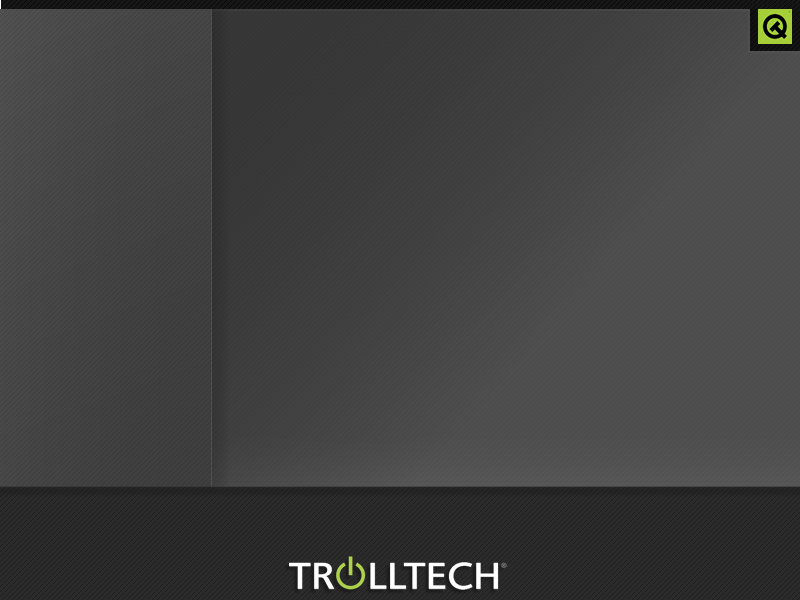
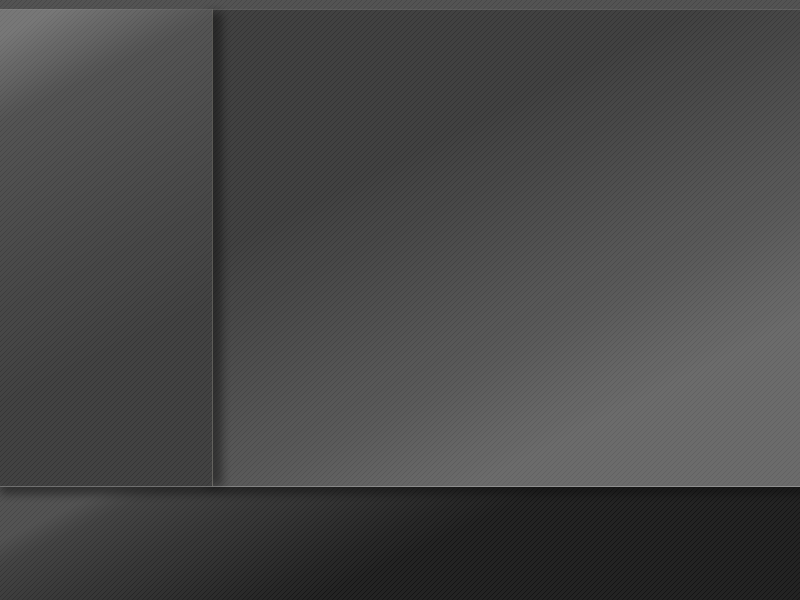
p4i integration Integrate 259815 from 4.3 to main: Details: fixed background and design
[git-p4: depot-paths = "//depot/qt/main/": change = 259816]

diff --git a/demos/qtdemo/src/imageitem.cpp b/demos/qtdemo/src/imageitem.cpp
@@ -14,12 +14,14 @@
 #include "imageitem.h"
 #include "colors.h"
 
-ImageItem::ImageItem(const QString &path, int maxWidth, int maxHeight, QGraphicsScene *scene, QGraphicsItem *parent)
-    : DemoItem(scene, parent)
+ImageItem::ImageItem(const QString &path, int maxWidth, int maxHeight, QGraphicsScene *scene,
+        QGraphicsItem *parent, bool adjustSize, float scale) : DemoItem(scene, parent)
 {
     this->path = path;
     this->maxWidth = maxWidth;
     this->maxHeight = maxHeight;
+    this->adjustSize = adjustSize;
+    this->scale = scale;
 }
 
 QImage *ImageItem::createImage(const QMatrix &matrix) const
@@ -29,38 +31,55 @@ QImage *ImageItem::createImage(const QMatrix &matrix) const
         return original; // nothing we can do about it...
     
     QPoint size = matrix.map(QPoint(this->maxWidth, this->maxHeight));
-    int w = size.x();
-    int h = size.y();
-
-    if (original->height() <= h && original->width() <= w)
+    float w = size.x(); // x, y is the used as width, height
+    float h = size.y();
+    
+    // Optimization: if image is smaller than maximum allowed size, just return the loaded image
+    if (original->size().height() <= h && original->size().width() <= w && !this->adjustSize && this->scale == 1)
         return original;
     
-    w = qMin(w, original->width());
-    h = qMin(h, original->height());
+    // Calculate what the size of the final image will be:
+    w = qMin(w, float(original->size().width()) * this->scale);
+    h = qMin(h, float(original->size().height()) * this->scale);
+    
+    float adjustx = 1.0f;
+    float adjusty = 1.0f;
+    if (this->adjustSize){
+        adjustx = qMin(matrix.m11(), matrix.m22());
+        adjusty = matrix.m22() < adjustx ? adjustx : matrix.m22();
+        w *= adjustx;
+        h *= adjusty;
+    }
     
     // Create a new image with correct size, and draw original on it
-    QImage *image = new QImage(w, h, QImage::Format_ARGB32_Premultiplied);
+    QImage *image = new QImage(int(w+2), int(h+2), QImage::Format_ARGB32_Premultiplied);
     image->fill(QColor(0, 0, 0, 0).rgba());
     QPainter painter(image);
+    painter.setRenderHints(QPainter::Antialiasing | QPainter::SmoothPixmapTransform);
+    if (this->adjustSize)
+        painter.scale(adjustx, adjusty);
+    if (this->scale != 1)
+       painter.scale(this->scale, this->scale);
     painter.drawImage(0, 0, *original);
 
-    // Blur out edges
-    int blur = 30;
-    if (h < original->height()){
-        QLinearGradient brush1(0, h - blur, 0, h);
-        brush1.setSpread(QGradient::PadSpread);
-        brush1.setColorAt(0.0, QColor(0, 0, 0, 0));
-        brush1.setColorAt(1.0, Colors::sceneBg1);
-        painter.fillRect(0, h - blur, original->width(), h, brush1);
+    if (!this->adjustSize){
+       // Blur out edges
+       int blur = 30;
+       if (h < original->height()){
+           QLinearGradient brush1(0, h - blur, 0, h);
+           brush1.setSpread(QGradient::PadSpread);
+           brush1.setColorAt(0.0, QColor(0, 0, 0, 0));
+           brush1.setColorAt(1.0, Colors::sceneBg1);
+           painter.fillRect(0, int(h) - blur, original->width(), int(h), brush1);
+       }
+       if (w < original->width()){
+           QLinearGradient brush2(w - blur, 0, w, 0);
+           brush2.setSpread(QGradient::PadSpread);
+           brush2.setColorAt(0.0, QColor(0, 0, 0, 0));
+           brush2.setColorAt(1.0, Colors::sceneBg1);
+           painter.fillRect(int(w) - blur, 0, int(w), original->height(), brush2);
+       }
     }
-    if (w < original->width()){
-        QLinearGradient brush2(w - blur, 0, w, 0);
-        brush2.setSpread(QGradient::PadSpread);
-        brush2.setColorAt(0.0, QColor(0, 0, 0, 0));
-        brush2.setColorAt(1.0, Colors::sceneBg1);
-        painter.fillRect(w - blur, 0, w, original->height(), brush2);
-    }
-  
     delete original;
     return image;
 }

diff --git a/demos/qtdemo/src/mainwindow.cpp b/demos/qtdemo/src/mainwindow.cpp
@@ -28,6 +28,8 @@ MainWindow::MainWindow(QWidget *parent) : QGraphicsView(parent), updateTimer(thi
     this->fpsMedian = -1;
     this->fpsLabel = 0;
     this->doneAdapt = false;
+    this->trolltechLogo = 0;
+    this->qtLogo = 0;
     this->setupWidget();
     this->setupScene();
     this->setupSceneItems();
@@ -38,6 +40,8 @@ MainWindow::MainWindow(QWidget *parent) : QGraphicsView(parent), updateTimer(thi
 
 MainWindow::~MainWindow()
 {
+    delete this->trolltechLogo;
+    delete this->qtLogo;
 }
 
 void MainWindow::setupWidget()
@@ -206,6 +210,11 @@ void MainWindow::setupSceneItems()
         this->fpsLabel->setZValue(100);
         this->fpsLabel->setPos(Colors::stageStartX, 600 - QFontMetricsF(Colors::buttonFont()).height() - 5);
     }
+
+    this->trolltechLogo = new ImageItem(":/images/trolltech-logo.png", 1000, 1000, this->scene, 0, true, 0.5f);
+    this->qtLogo = new ImageItem(":/images/qtlogo_small.png", 1000, 1000, this->scene, 0, true, 0.5f);
+    this->trolltechLogo->setZValue(100);
+    this->qtLogo->setZValue(100);
 }
 
 void MainWindow::checkAdapt()
@@ -250,15 +259,7 @@ void MainWindow::drawBackgroundToPixmap()
     QPainter painter(&this->background);
     
     if (false && Colors::useEightBitPalette){
-        // Use plain color bacground to enhance readability
-        float top = Colors::stageStartY;
-        float bottom = Colors::stageStartY + Colors::stageHeight - 29;
-        painter.fillRect(r, Colors::sceneBg2);
-        painter.fillRect(QRectF(0, top, r.width(), bottom), QColor(100, 100, 100));
-        QImage bg(":/images/trolltech-logo.png");
-        painter.drawImage(int((r.width() - bg.width()) / 2), int(top + bottom) + 10, bg);
-        QImage logo(":/images/qtlogo_small.png");
-        painter.drawImage(int(r.width()) - logo.width() - 10, 10, logo);
+        painter.fillRect(r, Colors::sceneBg1);
     } else {
         QImage bg(":/images/demobg.png");
         painter.drawImage(0, 0, bg);
@@ -337,6 +338,14 @@ void MainWindow::resizeEvent(QResizeEvent *event)
     QGraphicsView::resizeEvent(event);
     DemoItem::setMatrix(this->matrix());
 
+    if (this->trolltechLogo){
+        const QRectF r = this->scene->sceneRect();
+        QRectF ttb = this->trolltechLogo->boundingRect();
+        this->trolltechLogo->setPos(int((r.width() - ttb.width()) / 2), 595 - ttb.height());
+        QRectF qtb = this->qtLogo->boundingRect();
+        this->qtLogo->setPos(802 - qtb.width(), 10);
+    }
+    
     // Changing size will almost always
     // hurt FPS during the changing. So
     // ignore it.

diff --git a/demos/qtdemo/src/demotextitem.cpp b/demos/qtdemo/src/demotextitem.cpp
@@ -24,6 +24,7 @@ DemoTextItem::DemoTextItem(const QString &text, const QFont &font, const QColor 
     this->textColor = textColor;
     this->bgColor = bgColor;
     this->textWidth = textWidth;
+    this->noSubPixeling = true;
 }
 
 void DemoTextItem::setText(const QString &text)
@@ -37,25 +38,34 @@ QImage *DemoTextItem::createImage(const QMatrix &matrix) const
     if (this->type == DYNAMIC_TEXT)
         return 0;
     
+    float sx = qMin(matrix.m11(), matrix.m22());
+    float sy = matrix.m22() < sx ? sx : matrix.m22();
+    
     QGraphicsTextItem textItem(0, 0);
     textItem.setHtml(this->text);
     textItem.setTextWidth(this->textWidth);
     textItem.setFont(this->font);
     textItem.setDefaultTextColor(this->textColor);
-    QRect scaledRect = matrix.mapRect(textItem.boundingRect().toRect());
-    QImage *image = new QImage(scaledRect.width(), scaledRect.height(), QImage::Format_ARGB32_Premultiplied);
+    
+    float w = textItem.boundingRect().width();
+    float h = textItem.boundingRect().height();
+    QImage *image = new QImage(int(w * sx), int(h * sy), QImage::Format_ARGB32_Premultiplied);
     image->fill(QColor(0, 0, 0, 0).rgba());
     QPainter painter(image);
-    painter.scale(matrix.m11(), matrix.m22());
-    painter.setRenderHints(QPainter::TextAntialiasing | QPainter::Antialiasing);
+    painter.scale(sx, sy);
     QStyleOptionGraphicsItem style;
-    if (this->bgColor.isValid()){
-        painter.setBrush(this->bgColor);
-        painter.setPen(Qt::NoPen);
-        painter.drawRoundRect(scaledRect, 10, 10);
-    }
     textItem.paint(&painter, &style, 0);
     return image;
+}
+
+void DemoTextItem::animationStarted(int)
+{
+    this->noSubPixeling = false;
+}
+
+void DemoTextItem::animationStopped(int)
+{
+    this->noSubPixeling = true;
 }
 
 QRectF DemoTextItem::boundingRect() const

diff --git a/demos/qtdemo/src/colors.cpp b/demos/qtdemo/src/colors.cpp
@@ -51,7 +51,7 @@ bool Colors::showBoundingRect = false;
 bool Colors::showFps = false;
 bool Colors::noAdapt = false;
 bool Colors::noWindowMask = true;
-bool Colors::useButtonBalls = false;
+bool Colors::useButtonBalls = true;
 bool Colors::low = false;
 bool Colors::useEightBitPalette = false;
 bool Colors::noTimerUpdate = false;
@@ -194,8 +194,8 @@ void Colors::parseArgs(int argc, char *argv[])
             Colors::useLoop = true;
         else if (s == "-use-8bit")
             Colors::useEightBitPalette = true;
-        else if (s == "-use-balls")
-            Colors::useButtonBalls = true;
+        else if (s == "-no-balls")
+            Colors::useButtonBalls = false;
         else if (s.startsWith("-ticker-letters"))
             Colors::tickerLetterCount = int(parseFloat(s, "-ticker-letters"));
         else if (s.startsWith("-ticker-text"))
@@ -212,7 +212,7 @@ void Colors::parseArgs(int argc, char *argv[])
             QMessageBox::warning(0, "Arguments",
                                  QString("Usage: qtdemo [-no-adapt] [-no-opengl] [-no-ticker] [-no-rescale] ")
                                  + "[-no-animations] [-no-blending] [-no-sync] [-use-timer-update[0|1]] [-use-window-mask] [-fullscreen] "
-                                 + "[-use-pixmaps] [-show-fps] [-show-br] [-use-8bit] [-use-loop] [-use-balls] [-animation-speed<float>] [-fps<int>] "
+                                 + "[-use-pixmaps] [-show-fps] [-show-br] [-use-8bit] [-use-loop] [-no-balls] [-animation-speed<float>] [-fps<int>] "
                                  + "[-low] [-ticker-letters<int>] [-ticker-speed<float>] [-no-ticker-morph] "
                                  + "[-ticker-morph-speed<float>] [-ticker-text<string>]");
             exit(0);

diff --git a/demos/qtdemo/src/demoitem.cpp b/demos/qtdemo/src/demoitem.cpp
@@ -25,6 +25,7 @@ DemoItem::DemoItem(QGraphicsScene *scene, QGraphicsItem *parent) : QGraphicsItem
     this->locked = false;
     this->prepared = false;
     this->neverVisible = false;
+    this->noSubPixeling = false;
     this->currentAnimation = 0;
     this->currGuide = 0;
     this->guideFrame = 0;
@@ -231,10 +232,12 @@ void DemoItem::paint(QPainter *painter, const QStyleOptionGraphicsItem *option, 
         else {
             QMatrix m = painter->worldMatrix();
             painter->setWorldMatrix(QMatrix());
+            float x = this->noSubPixeling ? int(m.dx()) : m.dx();
+            float y = this->noSubPixeling ? int(m.dy()) : m.dy();
             if (this->sharedImage->image)
-                painter->drawImage(QPointF(m.dx(), m.dy()), *this->sharedImage->image);
+                painter->drawImage(QPointF(x, y), *this->sharedImage->image);
             else
-                painter->drawPixmap(QPointF(m.dx(), m.dy()), *this->sharedImage->pixmap);
+                painter->drawPixmap(QPointF(x, y), *this->sharedImage->pixmap);
         }
     }
 }

diff --git a/demos/qtdemo/src/demotextitem.h b/demos/qtdemo/src/demotextitem.h
@@ -25,7 +25,9 @@ public:
     DemoTextItem(const QString &text, const QFont &font, const QColor &textColor,
         float textWidth, QGraphicsScene *scene = 0, QGraphicsItem *parent = 0, TYPE type = STATIC_TEXT, const QColor &bgColor = QColor());
     void setText(const QString &text);
-    virtual QRectF boundingRect() const; // overridden
+    QRectF boundingRect() const; // overridden
+    void animationStarted(int id = 0);
+    void animationStopped(int id = 0);
 
 protected:
     virtual QImage *createImage(const QMatrix &matrix) const; // overridden

diff --git a/demos/qtdemo/src/scanitem.cpp b/demos/qtdemo/src/scanitem.cpp
@@ -41,8 +41,9 @@ QImage *ScanItem::createImage(const QMatrix &matrix) const
         painter.drawEllipse(1, 1, scaledRect.width()-2, scaledRect.height()-2);
     }
     else {
-        painter.setPen(QPen(QColor(0, 0, 0, 250), 1));
-        painter.setBrush(QColor(206, 246, 117, 150));
+        painter.setPen(QPen(QColor(0, 0, 0, 20), 1));
+//        painter.setBrush(QColor(206, 246, 117, 150));
+        painter.setBrush(QColor(0, 0, 0, 20));
         painter.drawEllipse(1, 1, scaledRect.width()-2, scaledRect.height()-2);
     }
     return image;

diff --git a/demos/qtdemo/src/imageitem.h b/demos/qtdemo/src/imageitem.h
@@ -20,8 +20,11 @@
 class ImageItem : public DemoItem
 {
 public:
-    ImageItem(const QString &path, int maxWidth, int maxHeight, QGraphicsScene *scene = 0, QGraphicsItem *parent = 0);
-   
+    ImageItem(const QString &path, int maxWidth, int maxHeight, QGraphicsScene *scene = 0, QGraphicsItem *parent = 0,
+         bool adjustSize = false, float scale = 1.0f);
+    
+    bool adjustSize;
+    float scale;
 protected:
     QImage *createImage(const QMatrix &matrix) const;
 

diff --git a/demos/qtdemo/src/mainwindow.h b/demos/qtdemo/src/mainwindow.h
@@ -18,6 +18,7 @@
 #include <QPixmap>
 
 class DemoTextItem;
+class ImageItem;
 
 class MainWindow : public QGraphicsView
 {
@@ -64,6 +65,8 @@ private:
     QTimer updateTimer;
     QTime demoStartTime;
     QPixmap background;
+    ImageItem *trolltechLogo;
+    ImageItem *qtLogo;
     bool doneAdapt;
 };
 

diff --git a/demos/qtdemo/src/main.cpp b/demos/qtdemo/src/main.cpp
@@ -42,6 +42,7 @@ int main(int argc, char *argv[])
     MenuManager::instance()->itemSelected(MenuManager::ROOT);
     if (Colors::useLoop){
         mainWindow.startLoop();
+        return 0;
     } else
         return app.exec();
 }

diff --git a/demos/qtdemo/src/demoitem.h b/demos/qtdemo/src/demoitem.h
@@ -51,6 +51,7 @@ public:
     qreal opacity;
     bool locked;
     DemoItemAnimation *currentAnimation;
+    bool noSubPixeling;
     
     // Used if controlled by a guide:
     void useGuide(Guide *guide, float startFrame = 0);
